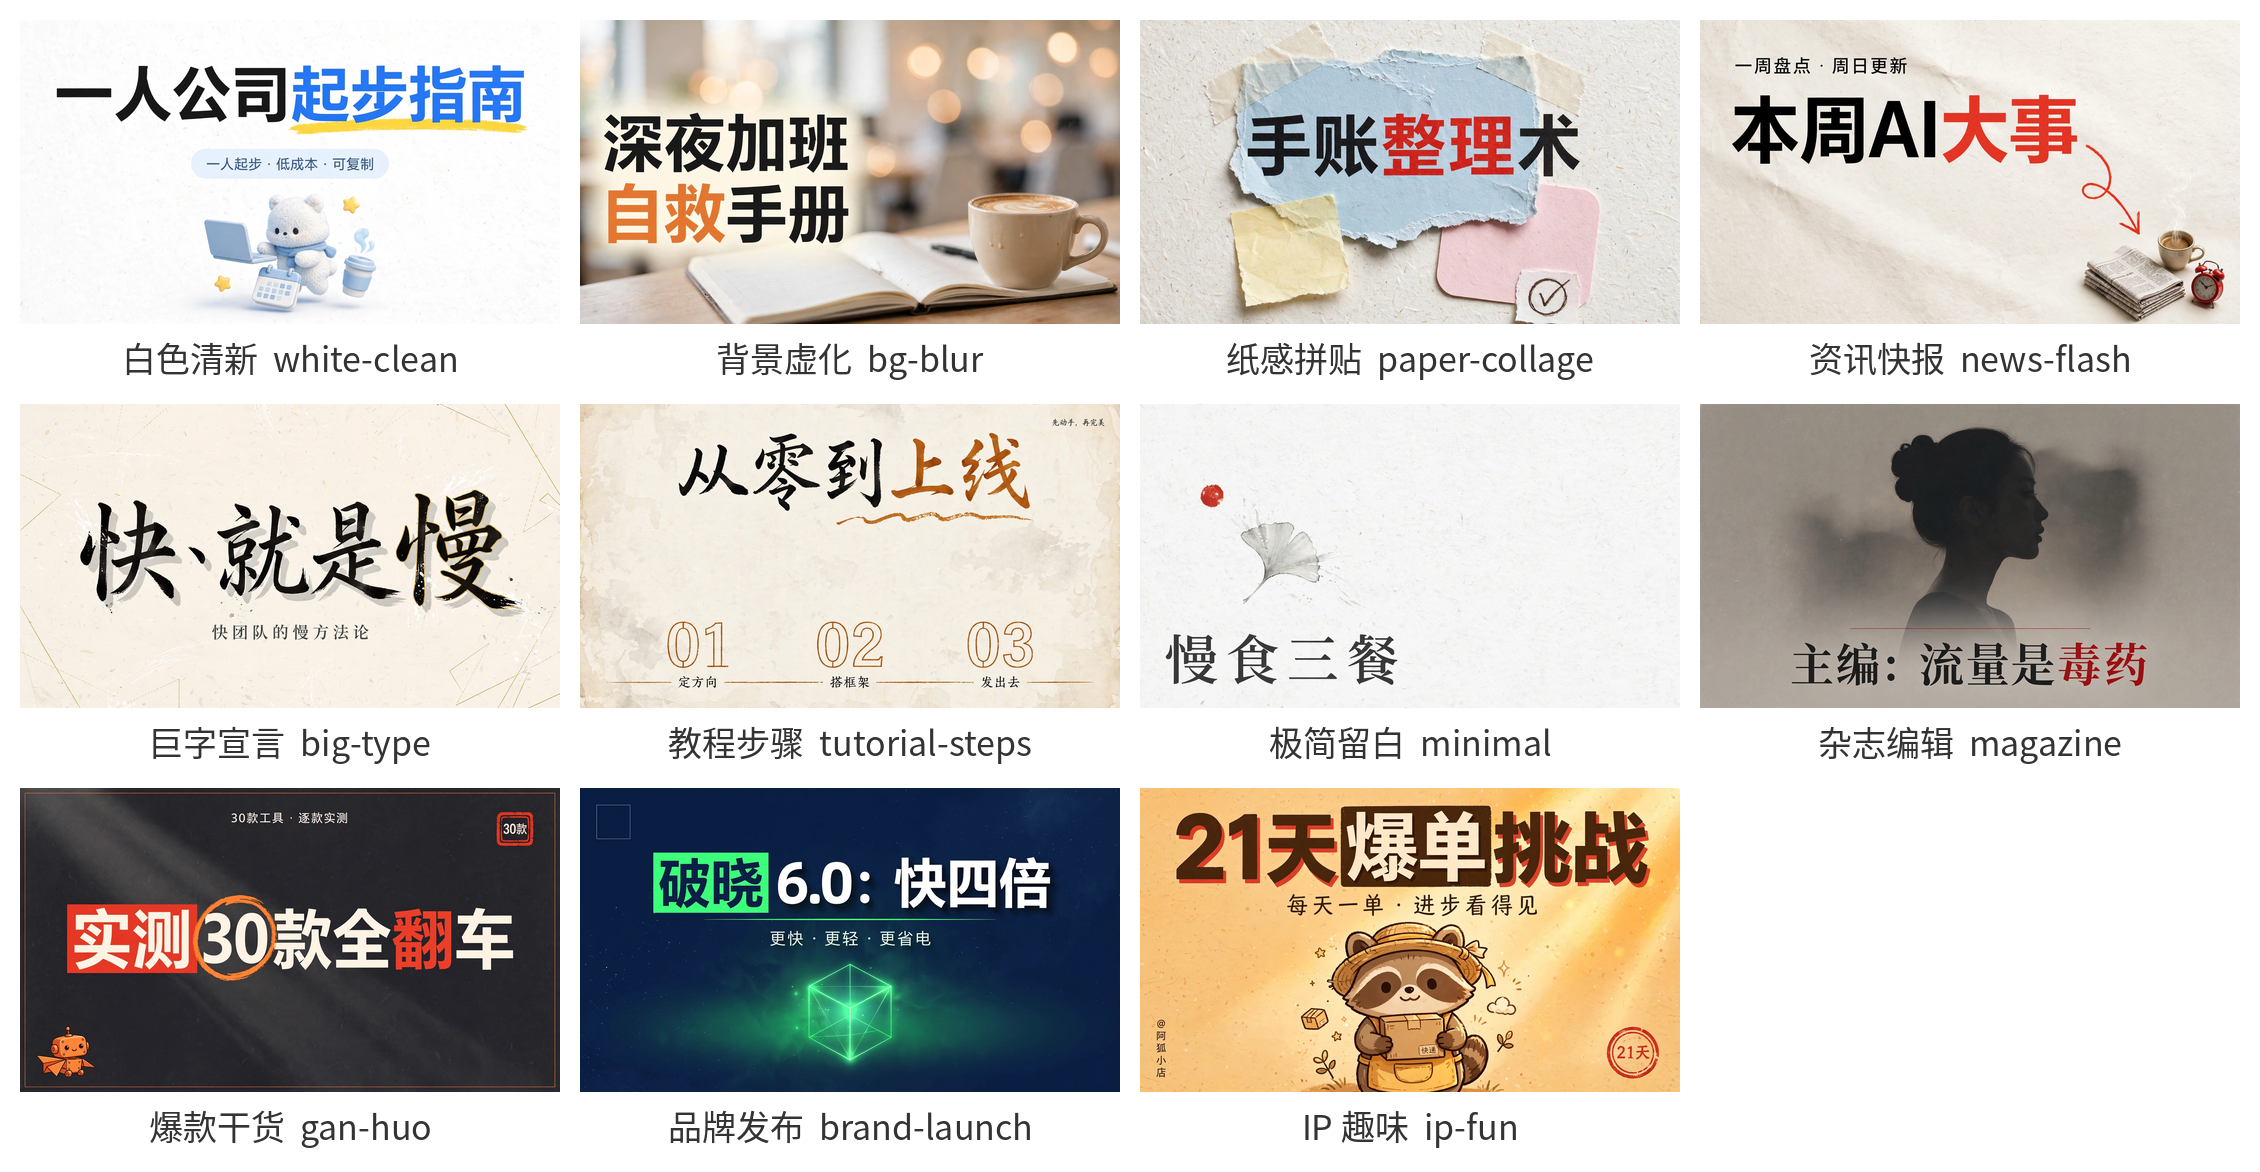
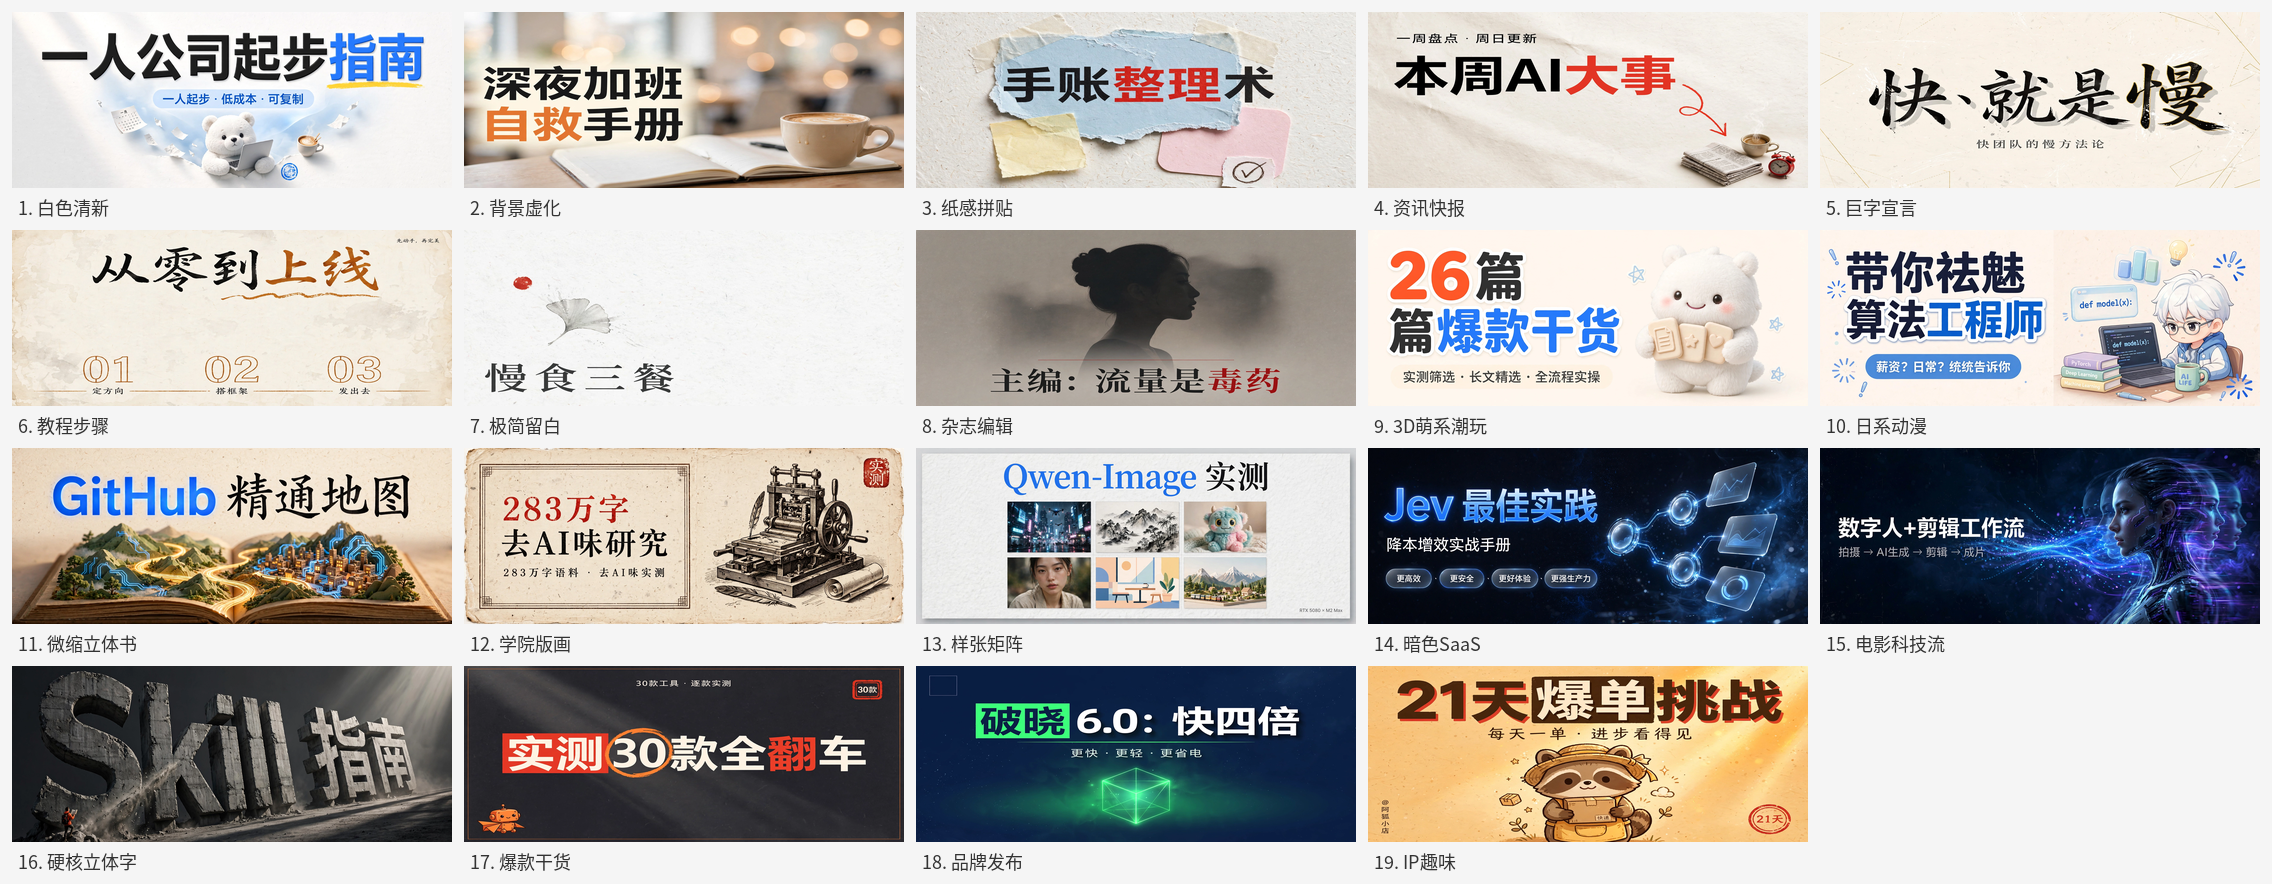
docs: 19 风格全量同步
- cover-prompts.md: 新增 8 风格完整提示词（1.13-1.20），11→19 种
- overview.png: 重生成 19 风格总览（5×4 网格，中文标注）
- examples/README.md: 26→42 张，11→19 种
- 主 README/cover README 中英：11→19 种文字引用全量更新

diff --git a/topmind-cover/assets/examples/README.md b/topmind-cover/assets/examples/README.md
@@ -1,27 +1,28 @@
 # 封面风格示例图
 
-26 张示例（随 npm 包发布，npx 安装即得）：11 种风格 × 2 种尺寸 = 22 张 + 3 张 alt 样张
+42 张示例（随 npm 包发布，npx 安装即得）：19 种风格 × 2 种尺寸 = 38 张 + 3 张 alt 样张
 + 1 张 alt 微信尺寸版（`white-clean-alt-wechat.png`），
-另附 `overview.png`（11 宫格总览：3 行 × 4 列缩略图 + 风格名标注，选风格时先看它）。
+另附 `overview.png`（19 风格总览缩略图 + 风格名标注，选风格时先看它）。
 
-- `<style>.png`（1200×675，X 长文封面 / 公众号共用主尺寸）
-  > 注：现行主尺寸已改为 1500×600（5:2），见 `../SKILL.md` 尺寸表。
-  > 本目录样张为 16:9 旧版，仅作风格参考，不重制。
+- `<style>.png`（1500×600，X 长文封面 / 公众号共用主尺寸，5:2）
 - `<style>-wechat.png`（900×383，公众号封面大图，中央裁剪版）
-- `<style>-alt.png`（1200×675，同风格第二张演示样张；白色清新 / 背景虚化 / 纸感拼贴
-  三种新风格各有 2 张：主样张与 alt 样张用了不同的优选组合）
+- `<style>-alt.png`（同风格第二张演示样张；白色清新 / 背景虚化 / 纸感拼贴
+  三种风格各有 2 张：主样张与 alt 样张用了不同的优选组合）
 - `<style>-alt-wechat.png`（900×383，alt 样张的公众号尺寸版；目前只有 white-clean 有，即
   `white-clean-alt-wechat.png`，`crop-cover.py` 流程产出双尺寸，新增 alt 样张时一并产出）
-- `overview.png`（11 宫格总览：3 行 × 4 列缩略图 + 风格名标注，选风格时先看它）
+- `overview.png`（19 风格总览缩略图 + 风格名标注，选风格时先看它）
 
-11 种风格（白色清新 `white-clean` / 背景虚化 `bg-blur` / 纸感拼贴 `paper-collage` /
+19 种风格（白色清新 `white-clean` / 背景虚化 `bg-blur` / 纸感拼贴 `paper-collage` /
 资讯快报 `news-flash` / 巨字宣言 `big-type` / 教程步骤 `tutorial-steps` /
-极简留白 `minimal` / 杂志编辑 `magazine` / 爆款干货 `gan-huo` / 品牌发布 `brand-launch` /
+极简留白 `minimal` / 杂志编辑 `magazine` / 3D萌系潮玩 `chao-wan-3d` /
+日系动漫 `anime-desk` / 微缩立体书 `diorama-book` / 学院版画 `academic-print` /
+样张矩阵 `gallery-grid` / 暗色SaaS `dark-saas` / 电影科技流 `cinematic-flow` /
+硬核立体字 `hard-core-type` / 爆款干货 `gan-huo` / 品牌发布 `brand-launch` /
 IP 趣味 `ip-fun`，浅色优先排序）：适用场景索引与配方见 `../references/cover-styles.md`。
 
 ## 原创与虚构声明（重要）
 
-本目录 26 张示例图均为**原创设计**（只演示抽象设计原则，不临摹任何第三方封面的
+本目录 42 张示例图均为**原创设计**（只演示抽象设计原则，不临摹任何第三方封面的
 版式与配色；复用本库设计时亦不得与第三方封面构成实质相似——只学原则，不学版式）。
 图中标题文案、数字、品牌名、署名均为**虚构演示内容**（如"破晓 6.0"、
 "@老周带单"）——直接复用前请换成自己的真实标题；凡封面上的数字必须在正文中有

diff --git a/topmind-cover/README.en.md b/topmind-cover/README.en.md
@@ -9,10 +9,10 @@ A reusable skill for generating cover art for X long-form posts and WeChat artic
 ## Style gallery
 
 <p align="center">
-  <img src="https://github.com/topmindspace/topmind-writing-skills/raw/main/topmind-cover/assets/examples/overview.png" alt="topmind-cover · 11 cover-style overview" width="960" />
+  <img src="https://github.com/topmindspace/topmind-writing-skills/raw/main/topmind-cover/assets/examples/overview.png" alt="topmind-cover · 19 cover-style overview" width="960" />
 </p>
 
-11 styles (clean white / background blur / paper collage / news flash / giant-type manifesto / tutorial steps / minimalist / editorial magazine / viral dry-goods / brand launch / fun IP, light-first ordering): use cases, palette stories, abstract design principles, and Chinese+English prompt recipes in [`references/cover-styles.md`](./references/cover-styles.md); full-size per-style shots in [`assets/examples/`](./assets/examples/). Prefer writing your own prompts and sending them straight to an image model (bypassing the skill)? See [`references/cover-prompts.md`](./references/cover-prompts.md) — a copy-paste prompt compendium plus cross-platform viral-cover research.
+19 styles (clean white / background blur / paper collage / news flash / giant-type manifesto / tutorial steps / minimalist / editorial magazine / 3D cute-toy / anime desk / diorama book / academic print / gallery grid / dark SaaS / cinematic flow / hardcore 3D type / viral dry-goods / brand launch / fun IP, light-first ordering): use cases, palette stories, abstract design principles, and Chinese+English prompt recipes in [`references/cover-styles.md`](./references/cover-styles.md); full-size per-style shots in [`assets/examples/`](./assets/examples/). Prefer writing your own prompts and sending them straight to an image model (bypassing the skill)? See [`references/cover-prompts.md`](./references/cover-prompts.md) — a copy-paste prompt compendium plus cross-platform viral-cover research.
 
 ## Install
 
@@ -22,7 +22,7 @@ npx @topmindspace/topmind-writing-skills install topmind-cover
 
 ## Usage
 
-0. **Pick a style**: choose 1 of 11 styles from `references/cover-styles.md` by topic (light-first) → check the example image to confirm the visual language.
+0. **Pick a style**: choose 1 of 19 styles from `references/cover-styles.md` by topic (light-first) → check the example image to confirm the visual language.
 1. **Refine the title**: lock the title copy first (usually ≤ 10 chars) using that style's title rules; rewrite until it lands — no drawing yet.
 2. **Composition brief**: one-sentence brief (theme / audience / mood / visual metaphor / palette direction) before composing the prompt.
 3. Input: article title + 3 theme keywords + platform (x / wechat / both, default both).

diff --git a/topmind-cover/README.md b/topmind-cover/README.md
@@ -9,10 +9,10 @@
 ## 风格样张
 
 <p align="center">
-  <img src="https://github.com/topmindspace/topmind-writing-skills/raw/main/topmind-cover/assets/examples/overview.png" alt="topmind-cover · 11 封面风格总览" width="960" />
+  <img src="https://github.com/topmindspace/topmind-writing-skills/raw/main/topmind-cover/assets/examples/overview.png" alt="topmind-cover · 19 封面风格总览" width="960" />
 </p>
 
-11 种风格（白色清新 / 背景虚化 / 纸感拼贴 / 资讯快报 / 巨字宣言 / 教程步骤 / 极简留白 / 杂志编辑 / 爆款干货 / 品牌发布 / IP 趣味，浅色优先排序）：适用场景、配色故事、抽象设计原则、中英 prompt 配方见 [`references/cover-styles.md`](./references/cover-styles.md)；单风格大图在 [`assets/examples/`](./assets/examples/)。想自己写提示词直接给 AI 生图（不走技能流程），看 [`references/cover-prompts.md`](./references/cover-prompts.md)（可直接拷贝的提示词大全 + 全平台爆款流派调研）。
+19 种风格（白色清新 / 背景虚化 / 纸感拼贴 / 资讯快报 / 巨字宣言 / 教程步骤 / 极简留白 / 杂志编辑 / 3D萌系潮玩 / 日系动漫 / 微缩立体书 / 学院版画 / 样张矩阵 / 暗色SaaS / 电影科技流 / 硬核立体字 / 爆款干货 / 品牌发布 / IP 趣味，浅色优先排序）：适用场景、配色故事、抽象设计原则、中英 prompt 配方见 [`references/cover-styles.md`](./references/cover-styles.md)；单风格大图在 [`assets/examples/`](./assets/examples/)。想自己写提示词直接给 AI 生图（不走技能流程），看 [`references/cover-prompts.md`](./references/cover-prompts.md)（可直接拷贝的提示词大全 + 全平台爆款流派调研）。
 
 ## 安装
 

diff --git a/README.md b/README.md
@@ -41,14 +41,14 @@ npx @topmindspace/topmind-writing-skills install topmind-briefs
 
 ### topmind-cover · 封面配图生成
 
-X 长文与公众号共用的封面图：震撼、醒目、主题突出。**选风格 → 看示例 → 按配方组 prompt** 三步出图，`crop-cover.py` 一键裁出双平台尺寸（X 1200×675、公众号 900×383）。11 种风格索引与配方见 [`references/cover-styles.md`](./topmind-cover/references/cover-styles.md)。
+X 长文与公众号共用的封面图：震撼、醒目、主题突出。**选风格 → 看示例 → 按配方组 prompt** 三步出图，`crop-cover.py` 一键裁出双平台尺寸（X 1200×675、公众号 900×383）。19 种风格索引与配方见 [`references/cover-styles.md`](./topmind-cover/references/cover-styles.md)。
 
 ```bash
 npx @topmindspace/topmind-writing-skills install topmind-cover
 ```
 
 <p align="center">
-  <img src="https://github.com/topmindspace/topmind-writing-skills/raw/main/topmind-cover/assets/examples/overview.png" alt="topmind-cover · 11 封面风格总览" width="960" />
+  <img src="https://github.com/topmindspace/topmind-writing-skills/raw/main/topmind-cover/assets/examples/overview.png" alt="topmind-cover · 19 封面风格总览" width="960" />
 </p>
 
 > 让 idea 飞，好想法被看见。

diff --git a/README.en.md b/README.en.md
@@ -50,7 +50,7 @@ npx @topmindspace/topmind-writing-skills install topmind-cover
 ```
 
 <p align="center">
-  <img src="https://github.com/topmindspace/topmind-writing-skills/raw/main/topmind-cover/assets/examples/overview.png" alt="topmind-cover · 11 cover-style overview" width="960" />
+  <img src="https://github.com/topmindspace/topmind-writing-skills/raw/main/topmind-cover/assets/examples/overview.png" alt="topmind-cover · 19 cover-style overview" width="960" />
 </p>
 
 > Let ideas fly — make good thinking visible.

diff --git a/topmind-cover/references/cover-styles.md b/topmind-cover/references/cover-styles.md
@@ -1,4 +1,4 @@
-# 封面风格库（11 种）
+# 封面风格库（19 种）
 
 > 想自己写提示词直接丢给 AI 生图（不走技能流程）？看 [`cover-prompts.md`](./cover-prompts.md)——
 > 11 风格完整可拷贝提示词 + 2 张参考图复刻学习 + 全平台爆款封面流派调研。
